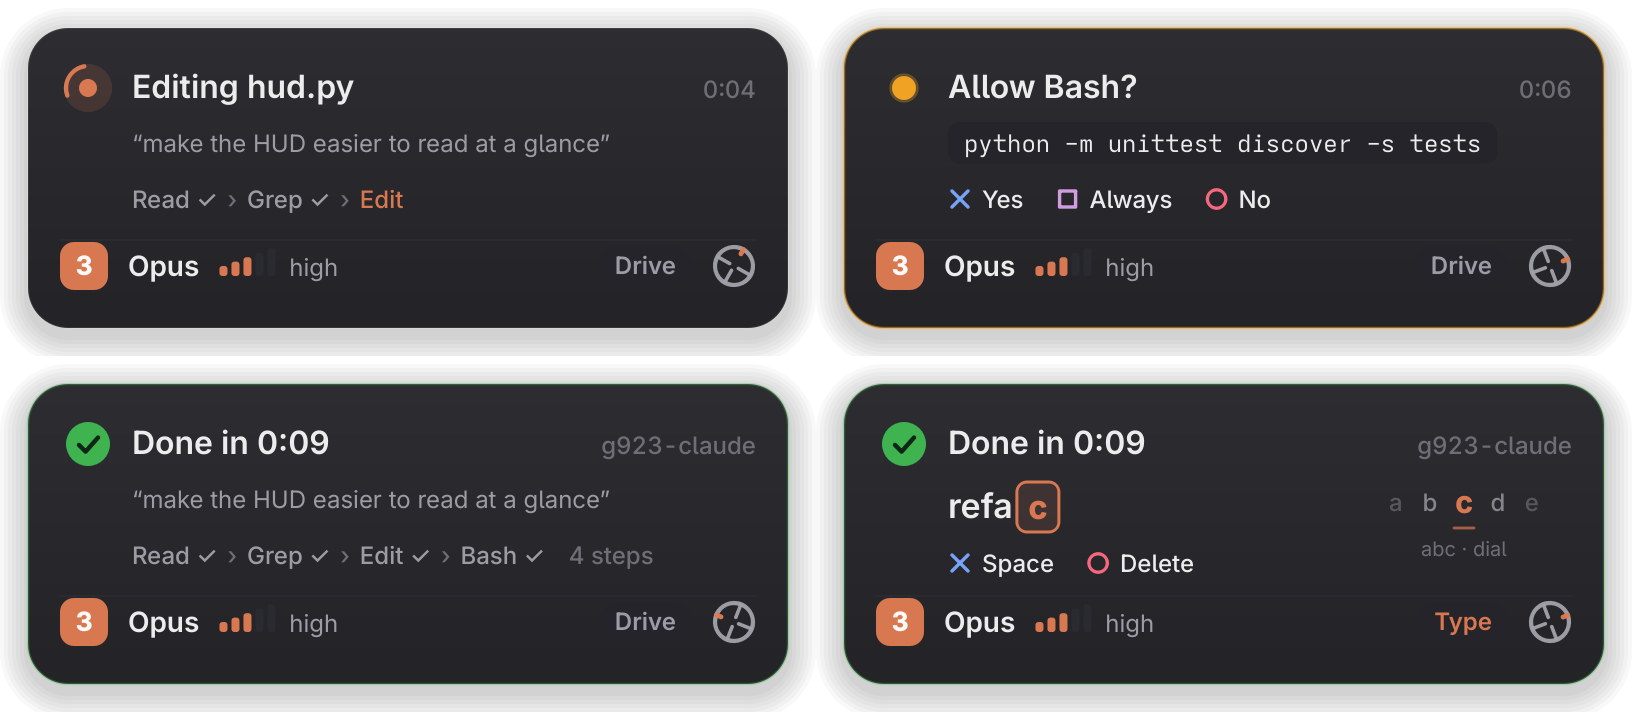
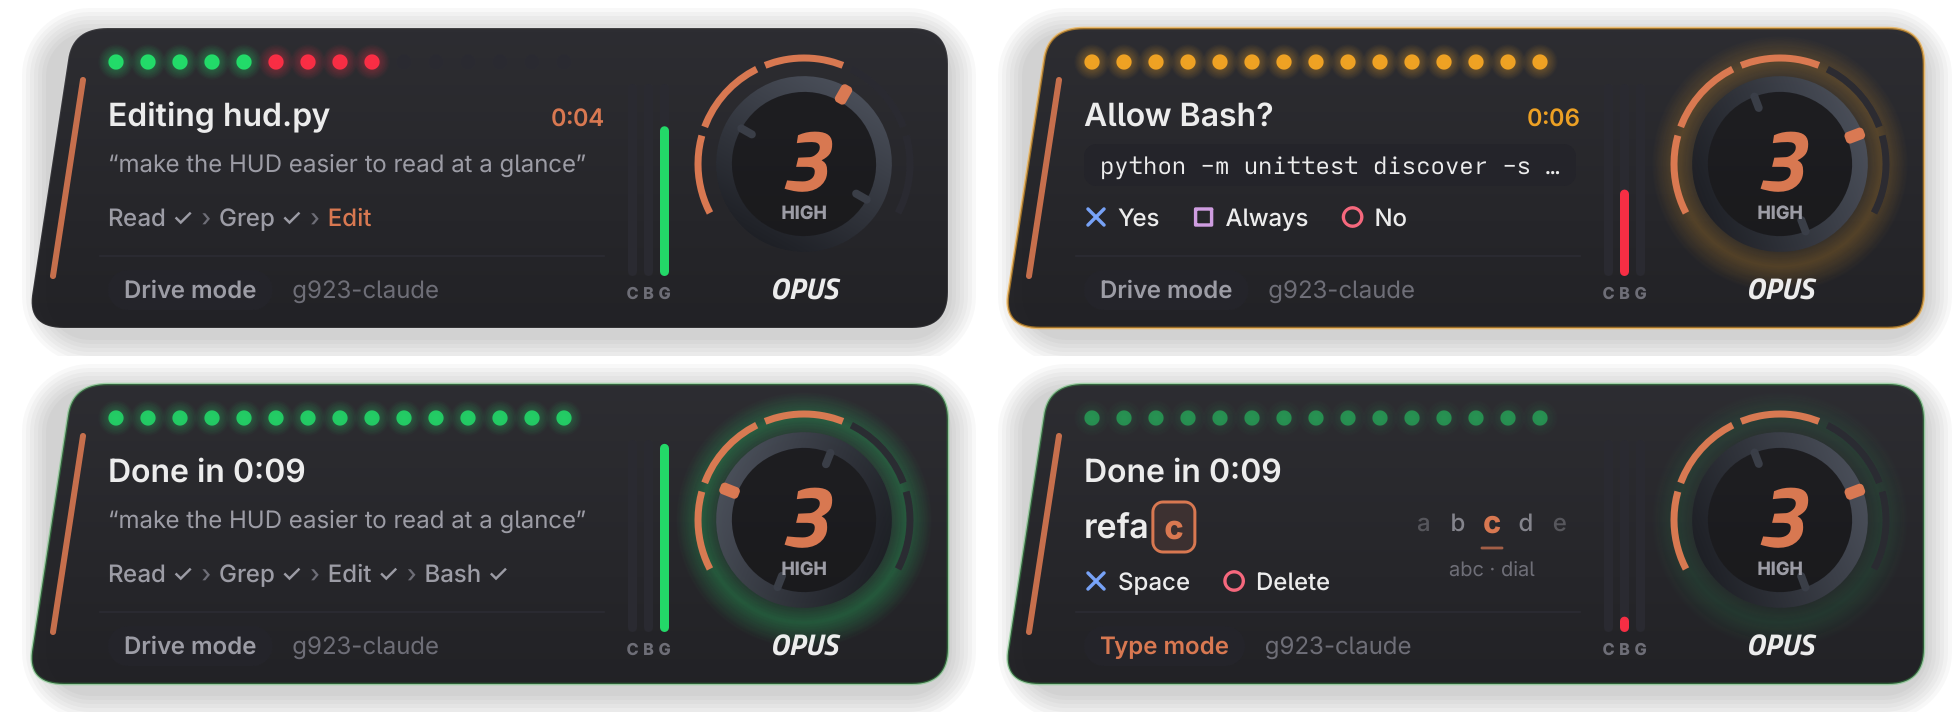
Document the combined HUD

diff --git a/README.md b/README.md
@@ -121,14 +121,15 @@ Tips:
 
 ## Floating HUD
 
-<img src="docs/img/hud.png" alt="The HUD card: Claude editing a file, asking to run a command with the wheel buttons that answer it, done with its steps listed, and Type mode picking the next letter" width="100%">
+<img src="docs/img/hud.png" alt="The HUD: Claude editing a file, asking to run a command with the wheel buttons that answer it, done with its steps listed, and Type mode picking the next letter" width="100%">
 
-A small card that floats in the bottom-right corner of your screen and tells you, in plain words, what Claude is doing and what the wheel will do next:
+A card that floats in the bottom-right corner of your screen: half agent status, half racing dash.
 
-- **What Claude is doing right now:** "Thinking…", "Editing hud.py", "Running npm test". A timer counts the turn and a status light spins while it works.
-- **The task and its steps:** your prompt, then the steps so far as breadcrumbs (Read ✓ › Grep ✓ › Edit), and "Done in 1:42" when it finishes.
-- **Approvals you can answer from the wheel:** when Claude asks permission, the card turns amber and shows the command along with the buttons that answer it: ✕ Yes, □ Always, ○ No.
-- **The wheel at a glance:** gear, model and `/effort` along the bottom, the Drive or Type mode, and a small wheel that turns with yours. In Type mode the card shows your word, the letter you're on, and its neighbours on the dial.
+- **What Claude is doing, in plain words:** "Thinking…", "Editing hud.py", "Running npm test", with a timer, your prompt, and the steps so far as breadcrumbs (Read ✓ › Grep ✓ › Edit). It ends with "Done in 1:42".
+- **F1 rev lights as the status light:** they rev while Claude works (faster while a tool runs), flash amber when it needs you, and go green when it's done.
+- **Approvals you answer from the wheel:** the card turns amber and shows the command along with the buttons that answer it: ✕ Yes, □ Always, ○ No.
+- **A racing dial:** its rim turns with your real wheel. The gear sits in the middle, `/effort` is the tach arc around it (max is the red zone), and the model is underneath. Live clutch, brake and gas bars sit beside it.
+- **Type mode:** your word, the letter you're on, and its neighbours on the dial.
 
 It never takes keyboard focus and clicks pass straight through it, so the wheel keeps typing into Claude.
 
@@ -138,7 +139,7 @@ pipx install 'g923-claude[hud]'     # from PyPI, then run: g923-hud
 g923-hud --demo                     # preview it without a wheel
 ```
 
-Qt adds about 250 MB, which is why the HUD is optional. Move or resize it in the `[hud]` section of your config, with `screen` (for example `"HDMI-1"`), `corner`, `margin`, `scale` and `opacity`. Set `show_details = false` to keep your prompts and commands off the card when you share your screen. On GNOME Wayland it runs through XWayland, the only way an app can stay on top in a corner there.
+Qt adds about 250 MB, which is why the HUD is optional. Move or resize it in the `[hud]` section of your config, with `screen` (for example `"HDMI-1"`), `corner`, `margin`, `scale` and `opacity`. Set `show_details = false` to keep your prompts and commands off the card when you share your screen. The gear and model use the bundled Titillium Web font (SIL Open Font License, `g923/fonts/OFL.txt`). On GNOME Wayland it runs through XWayland, the only way an app can stay on top in a corner there.
 
 ## How it works
 
@@ -150,7 +151,7 @@ Qt adds about 250 MB, which is why the HUD is optional. Move or resize it in the
                    │
                    ├─▶ feedback: force feedback on the wheel, or notification + sound
                    │
-                   └─▶ live state on the same socket ──▶ g923-hud (optional status card)
+                   └─▶ live state on the same socket ──▶ g923-hud (optional on-screen HUD)
 ```
 
 The daemon reads the wheel through evdev and types into whichever window has focus through a virtual uinput keyboard, so it works on any Wayland compositor (GNOME included) and X11. Claude Code hooks report back over a Unix socket so the wheel can react.

diff --git a/CHANGELOG.md b/CHANGELOG.md
@@ -6,7 +6,7 @@ All notable changes to this project are documented here. The format follows [Kee
 
 ### Added
 - Type mode: holding ○ repeats backspace like a keyboard key, then switches to deleting whole words (`Ctrl+W`); timings configurable in `[type]`
-- `g923-hud`: a floating status card saying what Claude is doing ("Editing hud.py"), the task and its steps, a timer, approvals with the wheel buttons that answer them, plus gear, model, effort and the Type mode letter picker. Optional install: `pip install 'g923-claude[hud]'` or `./install.sh --hud`
+- `g923-hud`: a floating HUD that's half agent status, half racing dash. It says what Claude is doing ("Editing hud.py"), with the task, its steps and a timer; F1-style rev lights show Claude's status; approvals show the wheel buttons that answer them; and a dial turns with your wheel showing gear, model and effort, next to live pedal bars and the Type mode letter picker. Optional install: `pip install 'g923-claude[hud]'` or `./install.sh --hud`
 - A `PreToolUse` hook, and the hooks now pass along the prompt, tool and command so the HUD can show them (only over the local socket)
 - The daemon streams its live state to anything that sends `watch` on its socket
 
